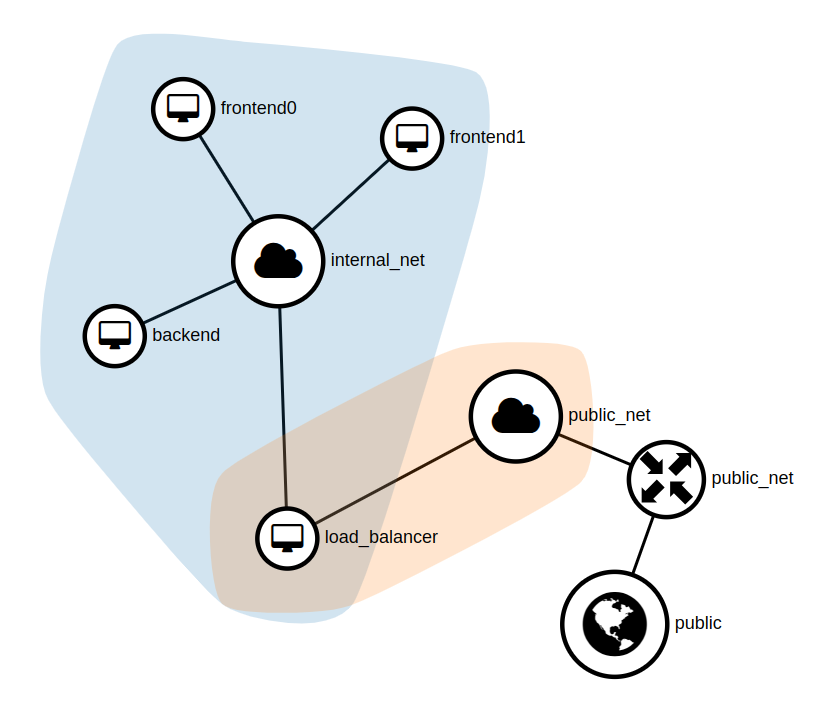
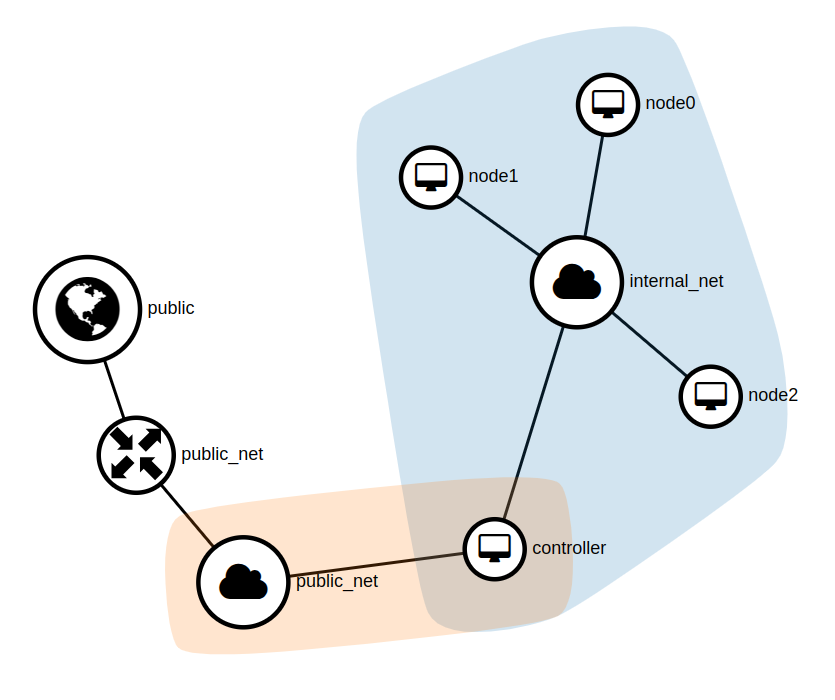
feat: use controller/nodes and for_each to create instances

diff --git a/README.md b/README.md
@@ -81,8 +81,8 @@ See it in the [`project/`](./project/) directory.
 Goals:
 - Deploy the infrastructure with Terraform
 - Install Kubernetes on cloud-init (Ansible needed?)
-- USe Flux to deploy the application
+- Use Flux to deploy the application
 
-For now, network topology (maybe the names will change for k8s nodes):
+For now, network topology:
 
 ![Network topology](./project/data/project_network_topology.png)
